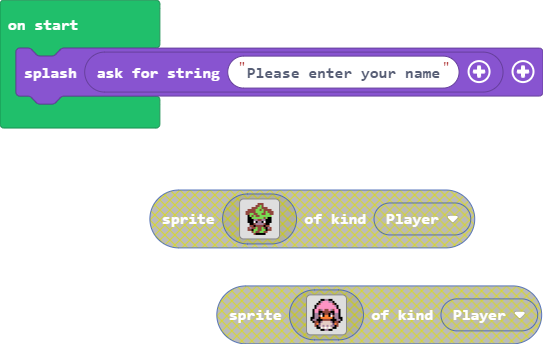
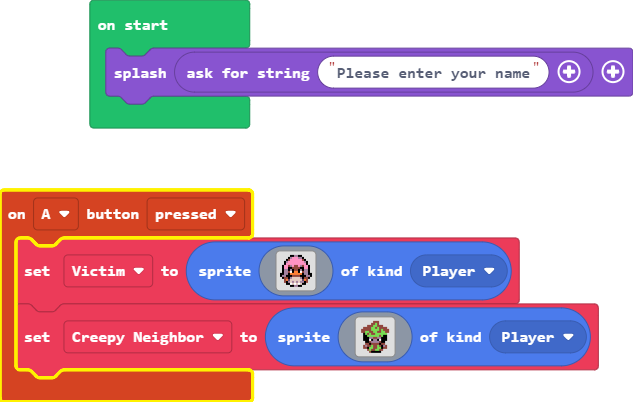
Update main.blocks, main.ts

diff --git a/main.ts b/main.ts
@@ -1,1 +1,41 @@
+controller.A.onEvent(ControllerButtonEvent.Pressed, function () {
+    Victim = sprites.create(img`
+        . . . . . f f b b f f . . . . . 
+        . . . . f b 3 3 3 b b f . . . . 
+        . . . f e 3 3 3 3 3 3 e f . . . 
+        . . f b 3 3 3 3 3 3 3 3 b f . . 
+        . . f 3 3 3 3 3 3 3 3 3 3 f . . 
+        . f 3 3 e b 3 e e 3 b e 3 3 f . 
+        . f 3 3 f f e e e e f f 3 3 f . 
+        . f b b f b f e e f b f b b f . 
+        . f b b e 1 f 4 4 f 1 e b b f . 
+        f f b b f 4 4 4 4 4 4 f b b f f 
+        f b b f f f e e e e f f f b b f 
+        . f e e f b d d d d b f e e f . 
+        . . e 4 c d d d d d d c 4 e . . 
+        . . e f b d b d b d b b f e . . 
+        . . . f f 1 d 1 d 1 d f f . . . 
+        . . . . . f f b b f f . . . . . 
+        `, SpriteKind.Player)
+    Creepy_Neighbor = sprites.create(img`
+        . . . . . . . e e e . . . . . . 
+        . . . . . . e e 7 e . . . . . . 
+        . . . . e e e 7 7 e e e . . . . 
+        . . e e e e 7 7 e 7 e e e e . . 
+        . e e e e e 7 7 7 7 e 7 e e e . 
+        . e e 7 7 e e 7 7 e e 7 7 e e . 
+        . . f 7 e 7 e e 7 7 7 7 7 7 . . 
+        . . f f 7 7 7 7 7 7 e 7 f f . . 
+        . . f f f b b e e b b f f f . . 
+        . . f f f 1 f b b f 1 f f f . . 
+        . . . f f e b b b b e f f . . . 
+        . . . e e f e e e e f e e . . . 
+        . . e b e e 7 e e 7 e f b e . . 
+        . . e e f 7 7 e e 7 7 f e e . . 
+        . . . . e 7 e e 7 7 e e . . . . 
+        . . . . . e f f f f f . . . . . 
+        `, SpriteKind.Player)
+})
+let Creepy_Neighbor: Sprite = null
+let Victim: Sprite = null
 game.splash(game.askForString("Please enter your name"))
